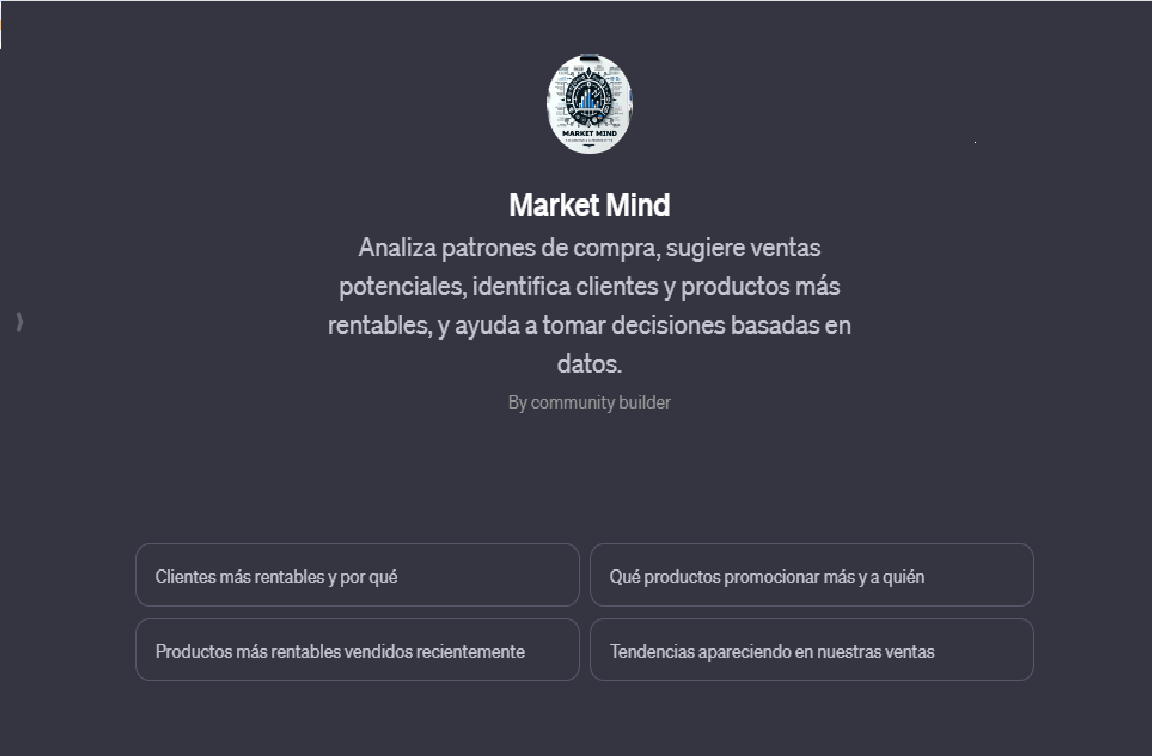
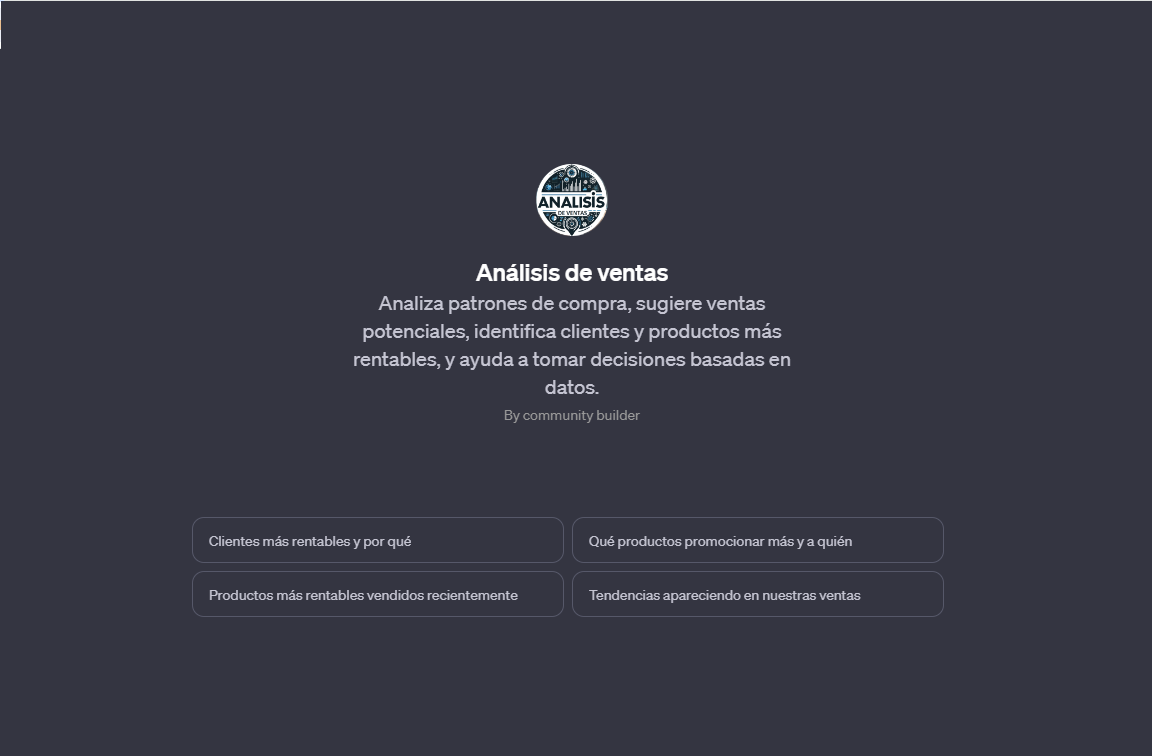
cambios varios. styles, imagenes, analisisVentas, Compare, Invv, Ventas, index

diff --git a/assets/proyectos/IAInnventure.html b/assets/proyectos/IAInnventure.html
@@ -1,14 +1,10 @@
-<!-- IA Innventure
-
--->
-
 <!DOCTYPE html>
 <html lang="es">
 <head>
     <meta charset="UTF-8">
     <meta name="viewport" content="width=device-width, initial-scale=1.0">
     <link rel="stylesheet" href="/assets/css/styles.css"> <!-- Asegúrate de vincular tu CSS aquí -->
-    <title>AI Innventure</title>
+    <title>Compare Investments</title>
 </head>
 <body>
     <!-- Cabecera -->
@@ -34,35 +30,69 @@
         </nav>
     </header>
 
-    <section class="home bd-grid" id="home">
-        <div class="home__data">
-            <h1 class="home__title">AI <span class="home__title-color"> Innventure</span><br> Gestión de ingresos y egresos</h1>
-            <p>Muestra el inventario actual, los movimientos de ingreso y egreso de mercaderías, y un registro de cada uno de esos movimientos.</p>
-        </div>
-    
-        <div class="home__image-container">
-            <img src="/assets/img/stock.png" alt="Frontend Image 1" class="home__image">
-            <p class="home__image-description">Listado de inversiones ordenadas por Rentabilidad Anual Esperada.</p>
-        </div>
-    
-    
-        <h1 class="">Compare <span class="home__title-color">Investments</span><br> Visualiza y Compara Inversiones</h1>
-    
-    
-        <p>Los usuarios pueden también añadir nuevas oportunidades de inversión a la lista, proporcionando así una herramienta útil tanto para inversores experimentados como para aquellos que recién comienzan en el mundo de las inversiones.</p>
-    </div>
-    
+       <!-- Sección Principal Mejorada -->
+<section class="home bd-grid" id="home">
+    <div class="home__data">
+        <h1 class="home__title">IA Fondo <span class="home__title-color">de Inversión</span></h1><br> 
+        <h2>Guía experta en Fondo de Inversión. Calcula potencial de rentabilidad.</h2> <br>
+
+        <p>Esta herramienta proporciona información detallada y asesoramiento sobre las ventajas y oportunidades de invertir en el Fondo de Inversión ............., centrado en startups innovadoras en el sector AgriFoodTech en Argentina. <br>
+    </div><br>
+
     <div class="home__image-container">
-        <img src="/assets/img/CIFront2.png" alt="Frontend Image 1" class="home__image">
-        <p class="home__image-description">Desde aquí se agrega cualquier otro tipo de inversión.</p>
+        <img src="/assets/img/ia fondo inversion.png" alt="Frontend Image 1" class="home__image">
+        <p class="home__image-description">Muestra ventajas, oportunidades, empresas, sus tecnologias y potencial de rentabilidad.</p>
     </div>
+<br><br>
+
+    <h1 class="">Posibles <span class="home__title-color"> acciones</span></h1>
+    <br>
     
-    </section>
+    <p>
+
+        <ul>
+            <li><strong>Proporcionar Análisis Detallado de Startups:</strong> <br> Ofrecer análisis en profundidad de startups específicas en las que Innventure ha invertido, como DeepAgro, Eiwa, SiloReal, Sensify, Satellites on Fire, y ZoomAgri.</li>
+            <li><strong>Asesorar sobre Beneficios Fiscales y Económicos:</strong> <br> Explicar cómo las inversiones en Innventure pueden ofrecer beneficios fiscales y potencial de crecimiento económico.</li>
+            <li><strong>Informar sobre la Estructura Legal y Financiera del Fondo:</strong> <br> Brindar claridad sobre el funcionamiento interno del fondo, incluyendo su estructura legal, tickets de inversión, rendimiento esperado y estructura de comisiones.</li>
+            <li><strong>Actualizar sobre Desarrollos y Tendencias del Sector:</strong> <br> Mantener informados a los interesados sobre las últimas noticias y tendencias en el sector AgriFoodTech y cómo estas afectan a Innventure y sus inversiones.</li>
+        </ul> <br>
     
-        
+        <h3>Posibles Preguntas:</h3>
+        <ul>
+            <li>¿Cuáles son los criterios de selección de startups para Innventure?</li>
+            <li>¿Cómo se gestiona el riesgo en las inversiones del fondo?</li>
+            <li>¿Cuál ha sido el impacto de las asociaciones estratégicas de Innventure con instituciones como AAPRESID y Endeavor?</li>
+            <li>¿Qué oportunidades de co-inversión existen actualmente en el fondo?</li>
+        </ul> <br>
     
+        <h3>Principales Beneficios para los Usuarios:</h3>
+        <ul>
+            <li><strong>Acceso a Información Especializada:</strong> 
+                <br> Obtener detalles y análisis específicos sobre el sector AgriFoodTech y startups específicas en Argentina.</li>
+            <li><strong>Asesoramiento Estratégico:</strong> 
+                <br> Recibir consejos sobre estrategias de inversión, potencial de crecimiento y beneficios fiscales relacionados con Innventure.</li>
+            <li><strong>Conocimiento Actualizado:</strong> 
+                <br> Estar al día con las últimas tendencias y desarrollos en el ecosistema de startups y AgriFoodTech.</li>
+            <li><strong>Toma de Decisiones Informada:</strong> 
+                <br> Utilizar la información y análisis proporcionados para tomar decisiones de inversión más informadas y estratégicas.</li>
+        </ul> <br>
     
-    <!-- Pie de página -->
-    <footer class="footer">
-        <p class="footer__copy">&#169; 2024 Compare Investments. Todos los derechos reservados.</p>
-    </footer>
+        <h3>Ventaja Competitiva de Esta IA:</h3>
+        <ul>
+            <li><strong>Especialización en Innventure y AgriFoodTech:</strong> <br> Concentración en un nicho específico, ofreciendo un conocimiento profundo y especializado no fácilmente disponible en otras fuentes.</li>
+            <li><strong>Asociación con Expertos y Líderes del Sector:</strong> <br> Información directa y conocimientos de figuras clave en Innventure, como Manuel Tanoira y Carlos Becco, y su impacto en el ecosistema de innovación.</li>
+            <li><strong>Información Actualizada y Contextualizada:</strong> <br> Capacidad para proporcionar información reciente y contextualmente relevante sobre el sector, el fondo y sus inversiones.</li>
+            <li><strong>Enfoque en Desarrollo Sostenible:</strong> <br> Comprensión de cómo Innventure contribuye al desarrollo sostenible en Argentina, un aspecto crucial en la inversión moderna.</li>
+        </ul> <br>
+    </p>
+    
+
+</section>
+
+    
+
+
+<!-- Pie de página -->
+<footer class="footer">
+    <p class="footer__copy">&#169; .</p>
+</footer>

diff --git a/assets/proyectos/AnalisisVentas.html b/assets/proyectos/AnalisisVentas.html
@@ -11,7 +11,7 @@ Además, sugerimos posibles rubros para los productos más rentables
 y exploramos estrategias para identificar el interés de clientes en el producto "QuickChill" (el más rentable).
 
 Sistema Avanzado de análisis de negocios y ventas
-Lo que describes es un sistema avanzado de análisis de negocios y ventas, que utiliza la analítica de datos para mejorar la toma de decisiones y aumentar la rentabilidad de una empresa. Este sistema realiza varias funciones clave:
+Lo que describes es un sistema avanzado de análisis de negocios y ventas, que utiliza la analítica de datos para mejorar la toma de decisiones y aumentar la rentabilidad de una empresa. Este sistema realiza varias funciones clave para identificar las mejores acciones.
 https://chat.openai.com/share/657d3f8b-261f-4e33-a393-bd6df0abf217
 
 
@@ -24,7 +24,7 @@ https://chat.openai.com/share/657d3f8b-261f-4e33-a393-bd6df0abf217
     <meta charset="UTF-8">
     <meta name="viewport" content="width=device-width, initial-scale=1.0">
     <link rel="stylesheet" href="/assets/css/styles.css"> <!-- Asegúrate de vincular tu CSS aquí -->
-    <title>Análisis de ventas</title>
+    <title>Compare Investments</title>
 </head>
 <body>
     <!-- Cabecera -->
@@ -50,35 +50,84 @@ https://chat.openai.com/share/657d3f8b-261f-4e33-a393-bd6df0abf217
         </nav>
     </header>
 
-    <section class="home bd-grid" id="home">
-        <div class="home__data">
-            <h1 class="home__title">IA Análisis<span class="home__title-color"> de ventas</span><br> Gestión de ingresos y egresos</h1>
-            <p>Muestra el inventario actual, los movimientos de ingreso y egreso de mercaderías, y un registro de cada uno de esos movimientos.</p>
-        </div>
-    
-        <div class="home__image-container">
-            <img src="/assets/img/stock.png" alt="Frontend Image 1" class="home__image">
-            <p class="home__image-description">Listado de inversiones ordenadas por Rentabilidad Anual Esperada.</p>
-        </div>
-    
-    
-        <h1 class="">Compare <span class="home__title-color">Investments</span><br> Visualiza y Compara Inversiones</h1>
-    
-    
-        <p>Los usuarios pueden también añadir nuevas oportunidades de inversión a la lista, proporcionando así una herramienta útil tanto para inversores experimentados como para aquellos que recién comienzan en el mundo de las inversiones.</p>
-    </div>
-    
+       <!-- Sección Principal Mejorada -->
+<section class="home bd-grid" id="home">
+    <div class="home__data">
+        <h1 class="home__title">Analisis <span class="home__title-color">de Ventas</span></h1><br> 
+        <h2>Analiza patrones. Sugiere ventas.</h2> <br>
+
+        <p>Sugiere qué productos vender a distintos clientes según las ventas anteriores, el rubro en que se encuentran, las características individuales.</p>
+        Analiza patrones de compra, identifica focos de rentabilidad, sugiere acciones comerciales por rubro, cliente, región y cualquier indicador particular. <br>
+    </div><br>
+
     <div class="home__image-container">
-        <img src="/assets/img/CIFront2.png" alt="Frontend Image 1" class="home__image">
-        <p class="home__image-description">Desde aquí se agrega cualquier otro tipo de inversión.</p>
+        <img src="/assets/img/market mindd.png" alt="Frontend Image 1" class="home__image">
+        <p class="home__image-description">Listado de inversiones ordenadas por Rentabilidad Anual Esperada.</p>
     </div>
+<br><br>
+
+    <h1 class="">Posibles <span class="home__title-color"> acciones</span></h1>
+    <br>
     
-    </section>
-    
+    <p><h2>Análisis General de Ventas:</h2>
+        <ul>
+            <li>¿Podrías proporcionar un análisis general de las ventas y la rentabilidad de los últimos trimestres?</strong></li>
+        </ul> <br>
         
+        <h2>Clientes Más Rentables:</h2>
+        <ul>
+            <li>¿Quiénes han sido los clientes más rentables en el último año y por qué?</strong></li>
+        </ul> <br>
+        
+        <h2>Productos Más Rentables:</h2>
+        <ul>
+            <li>¿Cuáles son los productos más rentables que hemos vendido recientemente?</strong></li>
+        </ul> <br>
+        
+        <h2>Tendencias de Compra:</h2>
+        <ul>
+            <li>¿Hay alguna tendencia notable en las compras de nuestros clientes que deberíamos considerar para futuras estrategias de marketing?</strong></li>
+        </ul> <br>
+        
+        <h2>Análisis de un Producto Específico:</h2>
+        <ul>
+            <li>Me gustaría saber más sobre las ventas del producto QuickChill. ¿Quiénes lo han comprado más y en qué cantidades?</strong></li>
+        </ul> <br>
+        
+        <h2>Recomendaciones de Marketing:</h2>
+        <ul>
+            <li>Basado en nuestro historial de ventas, ¿qué productos deberíamos promocionar más y a qué clientes?</li>
+        </ul> <br>
+        
+        <h2>Estrategias de Descuentos:</h2>
+        <ul>
+            <li>¿Podrías sugerir alguna estrategia de descuentos o promociones que podríamos implementar para mejorar las ventas de productos específicos?</li>
+        </ul> <br>
+        
+        <h2>Previsiones de Ventas Futuras:</h2> 
+        <ul>
+            <li>¿Qué predicciones puedes hacer sobre nuestras ventas futuras basadas en los datos actuales?</li>
+        </ul> <br>
+        
+        <h2>Impacto de Factores Externos:</h2>
+        <ul>
+            <li>¿Cómo han impactado los eventos recientes o las tendencias del mercado en nuestras ventas y rentabilidad?</li>
+        </ul> <br>
+        
+        <h2>Optimización de Inventario:</h2>
+        <ul>
+            <li>¿Hay productos que no se están vendiendo bien y deberíamos considerar descontinuar o reducir su inventario?</li> <br>
+        </ul> <br>
+        </p>
+
+
+
+</section>
+
     
-    
-    <!-- Pie de página -->
-    <footer class="footer">
-        <p class="footer__copy">&#169; 2024 Compare Investments. Todos los derechos reservados.</p>
-    </footer>
+
+
+<!-- Pie de página -->
+<footer class="footer">
+    <p class="footer__copy">&#169; .</p>
+</footer>

diff --git a/assets/proyectos/CompareInvest.html b/assets/proyectos/CompareInvest.html
@@ -1,7 +1,3 @@
-<!--Compare Investments: Una Herramienta para Visualizar y Comparar Opciones de Inversión
-Compare Investments es una plataforma diseñada para facilitar la visualización y comparación de diversas opciones de inversión. La página presenta una tabla detallada que incluye información sobre el rendimiento histórico, la inversión mínima requerida, la calificación de riesgo y la rentabilidad anual esperada de cada opción de inversión. Los usuarios pueden también añadir nuevas oportunidades de inversión a la lista, proporcionando así una herramienta útil tanto para inversores experimentados como para aquellos que recién comienzan en el mundo de las inversiones.
--->
-
 <!DOCTYPE html>
 <html lang="es">
 <head>
@@ -34,44 +30,24 @@ Compare Investments es una plataforma diseñada para facilitar la visualización
         </nav>
     </header>
 
-    <!-- Sección Principal ->
-    <section class="home bd-grid" id="home">
-        <div class="home__data">
-            <h1 class="home__title">Compare <span class="home__title-color">Investments</span><br> Visualiza y Compara Inversiones</h1>
-            <p>Una herramienta para visualizar y comparar opciones de inversión.</p>
-      
-        </div>
-    </section>
-
-    <section class="home bd-grid" id="home">
-        <!-- Imágenes del Frontend ->
-        <img src="/assets/img/CIFront1.png" alt="Frontend Image 1" class="work__img">
-        
-    </section> -->
-     
-
-
-
-    <!-- Sección Principal Mejorada -->
+       <!-- Sección Principal Mejorada -->
 <section class="home bd-grid" id="home">
     <div class="home__data">
         <h1 class="home__title">Comparar <span class="home__title-color">Inversiones</span></h1><br> 
         <h2>Visualiza y Compara Inversiones</h2> <br>
-        <p>Una herramienta para visualizar y comparar opciones de inversión. Está diseñada para evaluar diversas opciones de inversión. <br> 
-            La página presenta una tabla que incluye información sobre el rendimiento histórico, la inversión mínima requerida, la calificación de riesgo y la rentabilidad anual esperada de cada opción de inversión.</p>
-    </div>
+        <p>Diseñada para evaluar diversas opciones de inversión, el sistema presenta una tabla que incluye información sobre el rendimiento histórico, la inversión mínima requerida, la calificación de riesgo y la rentabilidad anual esperada de cada opción de inversión.</p> <br>
+    </div> <br>
 
     <div class="home__image-container">
         <img src="/assets/img/CIFront1.png" alt="Frontend Image 1" class="home__image">
         <p class="home__image-description">Listado de inversiones ordenadas por Rentabilidad Anual Esperada.</p>
     </div>
 
+<br><br>
+    <h1 class="">Cargar <span class="home__title-color"> nuevas inversiones</span></h1> <br>
 
-    <h1 class="">Cargar <span class="home__title-color"> nuevas inversiones</span><br> </h1>
+    <p>Los usuarios pueden también añadir nuevas oportunidades de inversión a la lista, proporcionando así una herramienta útil tanto para inversores experimentados como para aquellos que recién comienzan.</p> <br><br>
 
-
-    <p>Los usuarios pueden también añadir nuevas oportunidades de inversión a la lista, proporcionando así una herramienta útil tanto para inversores experimentados como para aquellos que recién comienzan en el mundo de las inversiones.</p>
-</div>
 
 <div class="home__image-container">
     <img src="/assets/img/CIFront2.png" alt="Frontend Image 1" class="home__image">
@@ -85,5 +61,5 @@ Compare Investments es una plataforma diseñada para facilitar la visualización
 
 <!-- Pie de página -->
 <footer class="footer">
-    <p class="footer__copy">&#169; 2024 Compare Investments. Todos los derechos reservados.</p>
+    <p class="footer__copy">&#169; .</p>
 </footer>

diff --git a/assets/proyectos/IAVentas.html b/assets/proyectos/IAVentas.html
@@ -54,7 +54,13 @@ Este es nuestra inteligencia artificial que se extiende por toda la empresa, de 
                 <h1 class="home__title">Central <span class="home__title-color"> para Vendedores</span></h1><br>
                 <h2>Información a tiempo real</h2> <br>
 
-            <p>Nuestra herramienta de habilitación de ventas es una solución innovadora diseñada para transformar la manera en que los equipos de ventas operan y alcanzan sus objetivos. Es una aplicación móvil y web especialmente creada para mejorar el rendimiento y eficacia de los vendedores, proporcionando acceso inmediato a una amplia gama de recursos y conocimientos.</p> <br>
+            <p>Una solución diseñada para transformar cómo los equipos de ventas operan y alcanzan sus objetivos. Es una aplicación móvil y web especialmente creada para mejorar el rendimiento y eficacia de los vendedores, proporcionando acceso inmediato a una amplia gama de recursos y conocimientos.</p> <br>
+
+            <div class="home__image-container">
+                <img src="/assets/img/central ppal.png" alt="Frontend Image 1" class="home__image">
+                <p class="home__image-description">Listado de inversiones ordenadas por Rentabilidad Anual Esperada.</p>
+            </div>
+            <br> <br> <br>
 
         <h2>Características Principales:</h2> <br>
         <ul>
@@ -79,17 +85,14 @@ Este es nuestra inteligencia artificial que se extiende por toda la empresa, de 
     </p>
         </div>
         
-            <div class="home__image-container">
-                <img src="/assets/img/central ppal.png" alt="Frontend Image 1" class="home__image">
-                <p class="home__image-description">Listado de inversiones ordenadas por Rentabilidad Anual Esperada.</p>
-            </div>
+
     
     
         
     
         <div class="home__data">
-            <h1 class="home__title">Central <span class="home__title-color"> para Vendedores</span></h1><br>
-            <h2>¿Qué puedo preguntarle al programa?</h2> <br>
+          
+            <h2>¿Qué puedo <span class="home__title-color"> preguntarle al programa?</span></h2> <br>
 
         <p><h2>Sobre Productos y Servicios:</h2> <br>
             <p>¿Puedes proporcionarme información detallada sobre [nombre del producto/servicio]?</p>

diff --git a/index.html b/index.html
@@ -182,10 +182,10 @@
 
                     <div class="work__item">
                         <a href="/assets/proyectos/IAInnventure.html" class="work__img-link">
-                            <img src="assets/img/work1.jpg" alt="Descripción de la imagen" class="work__img">
+                            <img src="assets/img/ia fondo inversion.png" alt="Descripción de la imagen" class="work__img">
                         </a>
                         <h3 class="work__title">IA Fondo de Inversión</h3>
-                        <p class="work__description">Guía experta en el Fondo de Inversión, muestra  ventajas y oportunidades, empresas, sus tecnologias y potencial de rentabilidad.</p>
+                        <p class="work__description">Guía experta en Fondo de Inversión, muestra  ventajas, oportunidades, empresas, sus tecnologias y potencial de rentabilidad.</p>
                     </div>
     
                     <div class="work__item">

diff --git a/assets/css/styles.css b/assets/css/styles.css
@@ -181,7 +181,7 @@ img {
 /*===== HOME =====*/
 .home {
   position: relative;
-  row-gap: 5rem;
+  
   padding: 4rem 0 5rem;
 }
 .home__data {
